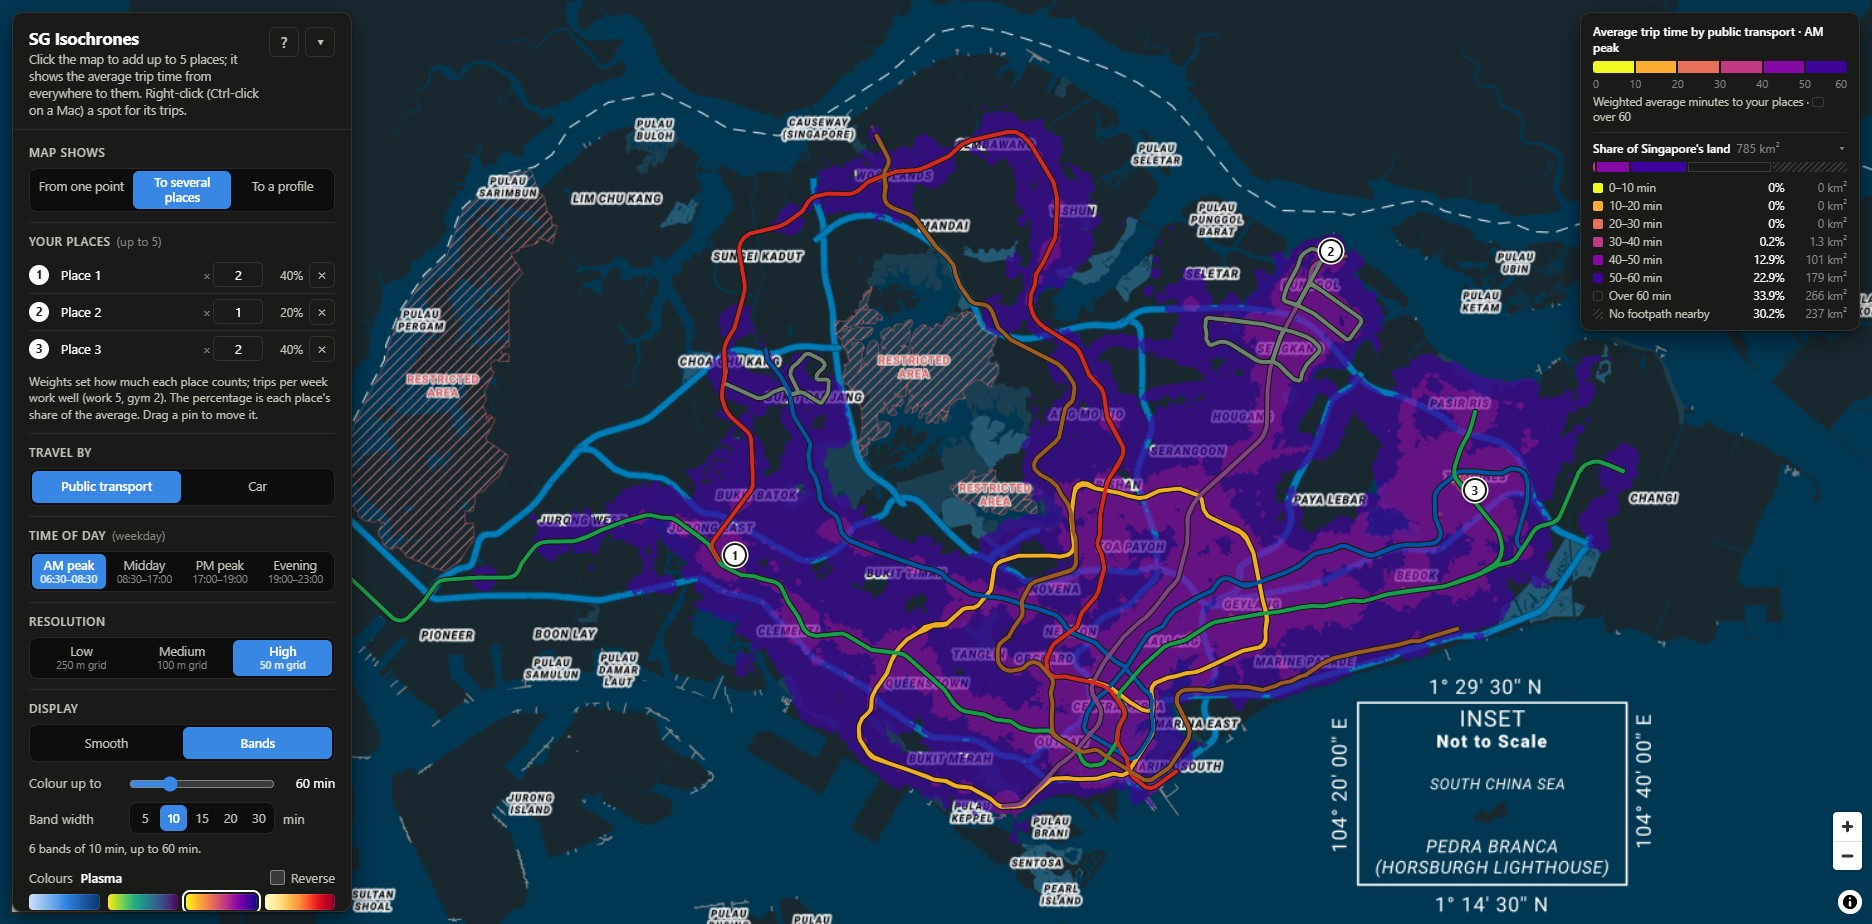
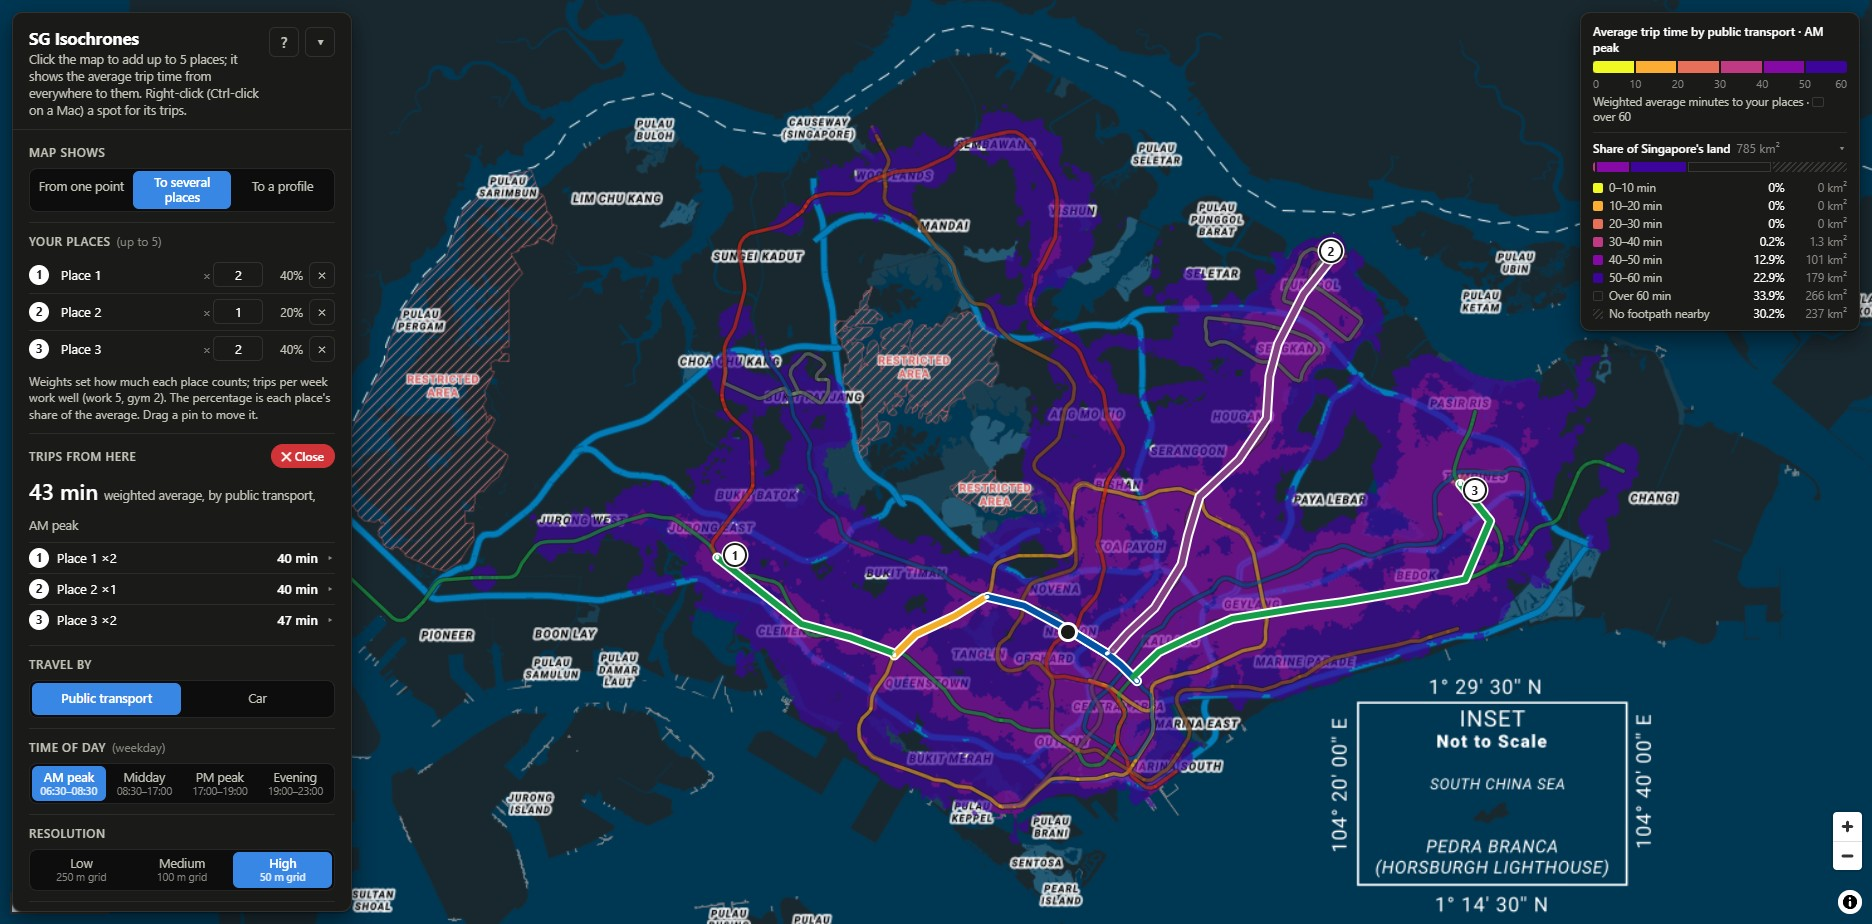
README: show a right-click's trips in the several-places screenshot
The trips from Newton to the three places are drawn on the map (Downtown,
Circle, East-West and North East lines) and listed under Trips from here.

diff --git a/scripts/readme_shots.py b/scripts/readme_shots.py
@@ -32,10 +32,11 @@ def main():
         # 1: from Raffles Place by public transport
         p.open("dir=from&o=1.28400,103.85150&mode=transit&band=am_peak&max=50&bw=10&kp=general")
         shoot(p, "1-from-one-point.jpg")
-        # 2: to Jurong East, Punggol Coast and Tampines, weighted 2 : 1 : 2
-        p.open("dir=to&pl=1.33400,103.74700,2,;1.41700,103.90980,1,;1.35170,103.94920,2,"
+        # 2: to Jurong East, Punggol Coast and Tampines, weighted 2 : 1 : 2, with the trips from
+        # Newton drawn (as a right-click there does)
+        p.open("dir=to&pl=1.33400,103.74700,2,;1.41700,103.90980,1,;1.35170,103.94920,2,&t=1.31291,103.83801"
                "&mode=transit&band=am_peak&max=60&bw=10&kp=general")
-        p.wait("placeParts.length === 3")
+        p.wait("placeParts.length === 3 && !!lastTrips && !document.querySelector('#route-section').hidden")
         p.settle()
         shoot(p, "2-several-places.jpg")
         # 3: to a profile, with the pin at Springleaf and the pointer on it

diff --git a/README.md b/README.md
@@ -101,7 +101,7 @@ about 0.5 GB of RAM while building (the server uses about 0.25 GB).
   **Right-click** a spot (or use *Trips* in the landmarks table) to see its trip to each
   place, with legs, and their weighted average.
 
-  ![The average trip time from everywhere to places in Jurong East, Punggol and Tampines, weighted 2, 1 and 2](docs/screenshots/2-several-places.jpg)
+  ![The average trip time from everywhere to places in Jurong East, Punggol and Tampines, weighted 2, 1 and 2, and a right-click at Newton showing its trips to each](docs/screenshots/2-several-places.jpg)
 - **To a profile**: pick a profile of key destinations, such as an office job in the CBD
   or frequent trips to JB (below). The heatmap shows, for every spot, the weighted
   average trip time to the profile's places: its key-destinations score if you lived
